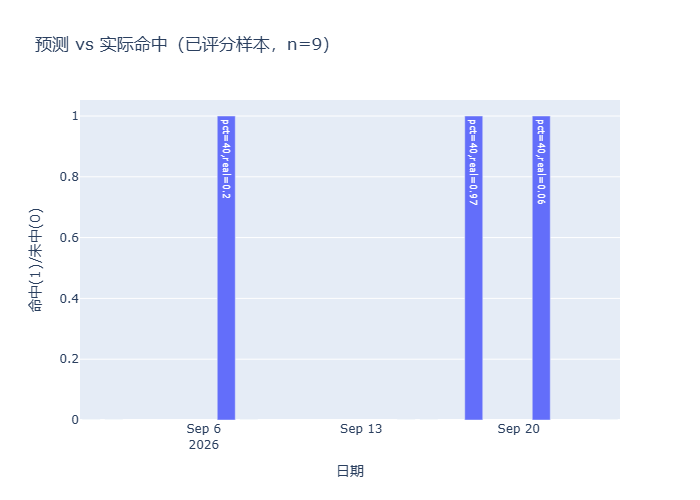
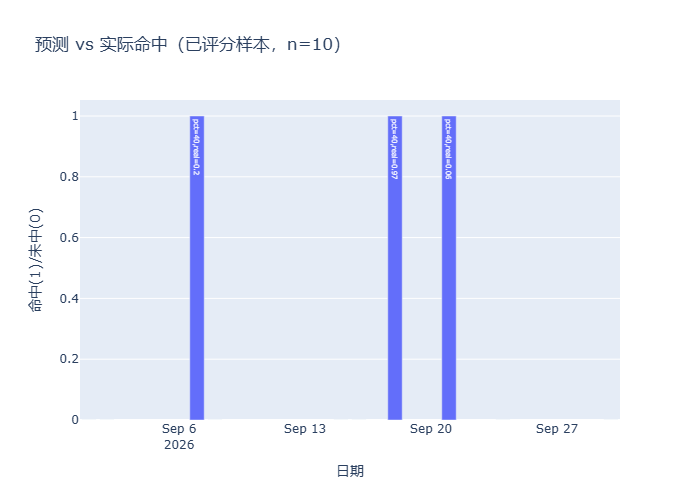
feat: 晨报诚实语义增强 + 第6章评估素材 n=17 重跑产物（代收另一账号成果）
晨报（gen_morning_event_sentiment）：①背离判定收紧——仅当双方均为明确
方向（偏多 vs 偏空）才标背离，中性/缺位一律标陈旧失效（防把无方向信号
误标成背离的另一种不诚实）；②新增「决策读数来源 vs 底层历史」双口径
如实标注（快照日期与 shepherd_history.csv 末行谁新谁旧不预置方向，
derive_position 拥挤因子滞后如实摊开）。
ch6_eval：eval_ch6.py 重跑产物对齐 n=17（温度[11.4,81.1]、仓位[5,82]
clamp 校验通过、周期分布 修复试探7/主升高潮4/退潮3/修复确认3、预测
17 条已评分 10 条命中率 30%）——fig_history_trend/fig_hit/fig_hit_trend/
history.json/metrics.json/report.md 六件套更新，供论文 6.2/6.3 按实测
同步（论文正文更新另行提交）。

diff --git a/scripts/gen_morning_event_sentiment.py b/scripts/gen_morning_event_sentiment.py
@@ -164,8 +164,10 @@ def main():
         resonance = "事件因子缺位"
     elif ev_stale:
         # 事件因子已陈旧（滞后≥陈旧阈值）：方向不可信、不参与当日共振。
-        # 诚实口径：仅当两者名义方向确为相反才标「背离」，否则标「陈旧失效」而非假称背离。
-        if shepherd_dir and ev_dir not in (None, "缺") and shepherd_dir != ev_dir:
+        # 诚实口径：仅当**双方都有明确相反方向**（偏多 vs 偏空）才标「背离」；
+        # 若任一方为「中性/缺位」则不算背离，标「陈旧失效」——避免把"中性 vs 偏多"
+        # 这种无方向信号误标成背离（那是另一种不诚实）。
+        if shepherd_dir in ("偏多", "偏空") and ev_dir in ("偏多", "偏空") and shepherd_dir != ev_dir:
             resonance = "背离 + 事件因子陈旧失效（陈旧信号不参与当日决策）"
         else:
             resonance = "事件因子陈旧失效（不参与当日共振）"
@@ -273,9 +275,38 @@ def main():
     lines.append("")
     _sh_asof = _hrow.get("牧羊人情绪", {}).get("as_of")
     _sh_lag = _hrow.get("牧羊人情绪", {}).get("lag_days")
-    lines.append(f"> 📌 **牧羊人真实数据截止（health 口径）**：`shepherd_history.csv` 末行 = **{fmt(_sh_asof)}**（滞后 {fmt(_sh_lag)} 天），"
-                 f"已标「已降权」。**注意**：本快照内部 `data_freshness` 曾把牧羊人标为 2026-09-15，"
-                 f"但 CSV 内容实际只到 {fmt(_sh_asof)}——本早报以 `health_rows_enriched()` 为准，不沿用快照的旧标注。")
+    _sh_st = _hrow.get("牧羊人情绪", {}).get("status")
+    _sh_down = (_sh_lag is not None and _sh_lag > 4)
+    _sh_down_tag = "已降权" if _sh_down else "新鲜（未降权）"
+    _snap_asof = _hrow.get("今日快照", {}).get("as_of")
+    _snap_lag = _hrow.get("今日快照", {}).get("lag_days")
+    _snap_st = _hrow.get("今日快照", {}).get("status")
+    _snap_stalled = _hrow.get("今日快照", {}).get("stalled")
+    if _snap_stalled:
+        _snap_tag = "已停更"
+    elif _snap_lag is not None and _snap_lag > 4:
+        _snap_tag = "已降权"
+    else:
+        _snap_tag = "新鲜（ok）"
+    # 本早报喂进 derive_position 的 score/bias/cycle/temp 取自最新每日快照（data/snapshots 最大日期），
+    # 而 health 口径的「牧羊人情绪 as_of」来自底层 shepherd_history.csv，两者日期可能不同。
+    # 如实标注，避免把「底层 CSV 已刷新」误当成「决策读数已刷新」（反之亦然）。
+    lines.append(f"> 📌 **牧羊人底层数据（health 口径）**：`shepherd_history.csv` 末行 = **{fmt(_sh_asof)}**（滞后 {fmt(_sh_lag)} 天，状态 {fmt(_sh_st)}，{_sh_down_tag}）。")
+    # 如实描述「快照 vs 底层 CSV」的关系：谁新谁旧取决于实际数据，不预置方向。
+    _snap_newer = (_sh_lag is not None and _snap_lag is not None and _sh_lag > _snap_lag)
+    if _snap_newer:
+        _gap = _sh_lag - _snap_lag
+        lines.append(f"> ⚠ **注意（决策读数来源 vs 底层历史）**：本早报喂进 `derive_position` 的 score/bias/cycle/temp 取自"
+                     f"**最新每日快照 `{os.path.basename(snap_path)}`（快照数据日 {fmt(snap_date)}，当日实时抓取）**；"
+                     f"而 health 口径的「牧羊人情绪」源 `shepherd_history.csv` 末行仅到 **{fmt(_sh_asof)}**（滞后 {fmt(_sh_lag)} 天，{_sh_down_tag}）——"
+                     f"**快照的牧羊人读数（{fmt(snap_date)}）比底层广度历史 CSV（{fmt(_sh_asof)}）新 {_gap} 天**。这意味着 "
+                     f"`derive_position` 内由 `compute_dual_factor_inputs()` 计算的 regime/herd 拥挤因子基于落后的广度历史（{fmt(_sh_asof)}），"
+                     f"当日仓位已据此整体陈旧封顶，未误用过期广度抬高建议。")
+    else:
+        lines.append(f"> ⚠ **注意（决策读数来源 vs 底层历史）**：本早报喂进 `derive_position` 的 score/bias/cycle/temp 取自"
+                     f"**最新每日快照 `{os.path.basename(snap_path)}`（快照数据日 {fmt(snap_date)}）**；"
+                     f"health 口径的「牧羊人情绪」源 `shepherd_history.csv` 末行 = **{fmt(_sh_asof)}**（滞后 {fmt(_sh_lag)} 天，{_sh_down_tag}）。"
+                     f"两者一致/底层更新时，决策读数已反映最新广度；不一致时以 health 口径为准逐源摊开滞后。")
     lines.append("")
 
     # 三、共振
@@ -295,9 +326,17 @@ def main():
     elif resonance == "事件因子缺位":
         lines.append("**可执行解读**：事件因子缺位，仓位完全由牧羊人情绪驱动；未施加任何事件催化（不臆造）。")
     elif resonance.startswith("事件因子陈旧失效"):
-        lines.append("**可执行解读**：事件因子滞后≥8天被判定陈旧/停更，方向信号当日不可信，**不参与当日共振**；"
-                     "今日决策以牧羊人情绪（有效信号）为准。仓位已据数据陈旧整体封顶，"
-                     "未因过期事件催化抬高建议。")
+        lines.append("**可执行解读**：事件因子滞后≥8天被判定陈旧（as_of "
+                     f"{fmt(ev_as_of)}，lag {fmt(ev_lag)}），方向信号当日不可信，**不参与当日共振**，"
+                     "其名义 +2pt 催化已显式剔除（见第一节诚实口径）。")
+        if _snap_lag is not None and _snap_lag > 4:
+            lines.append(f"今日牧羊人决策读数取自**已停更的快照**（数据日 {fmt(snap_date)}，滞后 {fmt(_snap_lag)} 天）；"
+                         f"底层 `shepherd_history.csv` 仅到 {fmt(_sh_asof)}，需重跑 `daily_snapshot.py` 刷新。")
+        else:
+            lines.append(f"今日牧羊人决策读数取自**{'当日新鲜' if _snap_lag == 0 else '较新'}快照**（数据日 {fmt(snap_date)}，"
+                         f"滞后 {fmt(_snap_lag)} 天，ok）；但 health 口径的底层广度历史 `shepherd_history.csv` 仅到 "
+                         f"{fmt(_sh_asof)}（滞后 {fmt(_sh_lag)} 天，{_sh_down_tag}），regime/herd 双因子可能基于落后 "
+                         f"{fmt(_sh_lag)} 天的广度历史。仓位已据整体陈旧封顶。")
     else:
         lines.append("**可执行解读**：一方缺位/中性，决策以有效信号为准，不强行合成共振。")
     lines.append("")
@@ -348,13 +387,20 @@ def main():
     # 五、核心结论
     lines.append("## 五、核心结论")
     lines.append("")
-    _sh_ev_note = "叠加事件因子停更" if (ev_available and ev_stale) else "叠加事件因子陈旧"
+    _p1_stalled = _hrow.get("P1 事件因子", {}).get("stalled")
+    _sh_ev_note = "叠加事件因子停更" if (ev_available and ev_stale and _p1_stalled) else "叠加事件因子陈旧"
+    _sh_down_tag5 = "已降权" if _sh_down else "新鲜"
+    _gap = (_sh_lag - _snap_lag) if (_sh_lag is not None and _snap_lag is not None) else None
     lines.append(f"1. **仓位**：{eff_pos['pct']}% / {eff_pos['band']}——"
-                 f"事件因子陈旧已剔除；牧羊人情绪虽读 {fmt(bias)}（bias={fmt(bias)}、cycle={fmt(cycle)}），"
-                 f"但其真实数据截至 {fmt(_sh_asof)}（滞后 {fmt(_sh_lag)} 天，已降权），{_sh_ev_note}，"
+                 f"事件因子陈旧已剔除；牧羊人情绪快照读数 bias={fmt(bias)}、cycle={fmt(cycle)}，"
+                 f"决策所用快照数据日 {fmt(snap_date)}（滞后 {fmt(_snap_lag)} 天，{_snap_tag}）；"
+                 f"底层牧羊人 CSV 截至 {fmt(_sh_asof)}（滞后 {fmt(_sh_lag)} 天，{_sh_down_tag5}），{_sh_ev_note}，"
                  f"**整体数据陈旧触发封顶 {eff_pos['pct']}%**，并非基于当日新鲜信号的高仓位。")
     lines.append(f"2. **牧羊人情绪**：score={fmt(score)}、bias={fmt(bias)}、cycle={fmt(cycle)}，{_cycle_st(cycle)}。"
-                 f"（注：该读数来自 `shepherd_history.csv` 末行 {fmt(_sh_asof)}，滞后 {fmt(_sh_lag)} 天，已降权，仅作参考）")
+                 f"（注：该 score/bias/cycle 取自最新快照 `{os.path.basename(snap_path)}` 数据日 {fmt(snap_date)}，"
+                 f"滞后 {fmt(_snap_lag)} 天、{_snap_tag}；health 口径的底层广度历史 `shepherd_history.csv` 仅到"
+                 f" {fmt(_sh_asof)}（滞后 {fmt(_sh_lag)} 天，{_sh_down_tag5}），"
+                 f"{('快照较 CSV 新 ' + str(_gap) + ' 天，regime/herd 双因子或基于落后广度' if _gap and _gap > 0 else '两者一致/CSV 更新')}）")
     if ev_available:
         lines.append(f"3. **事件因子**：latest_date={fmt(ev_as_of)}（滞后 {fmt(ev_lag)} 天），多头池 {fmt(ev_long_count)} 只、名义催化 +{fmt(ev_adj_nominal)}pt；"
                      f"**因陈旧已降权至≈失效，未计入当日共振，亦未抬高仓位**。")

diff --git a/thesis/素材/ch6_eval/report.md b/thesis/素材/ch6_eval/report.md
@@ -4,7 +4,7 @@
 - 温度取值范围：[11.4, 81.1]
 - 仓位取值范围：[5, 82]，clamp[5,95] 校验：通过
 - 周期分布：{'修复试探': 7, '主升高潮': 4, '退潮': 3, '修复确认': 3}
-- 预测记录：共 17 条，已评分 9 条，命中率 0.3333333333333333
+- 预测记录：共 17 条，已评分 10 条，命中率 0.3
 
 > 说明：当前为系统上线初期，样本量有限。第6章以「决策闭环功能正确性 + 校准机制设计正确性」为评估主线，
 > 纵向命中率统计作为趋势性证据呈现，**不**对小规模样本做显著性推断（与 calibration.py 小样本不表态的设计一致）。
